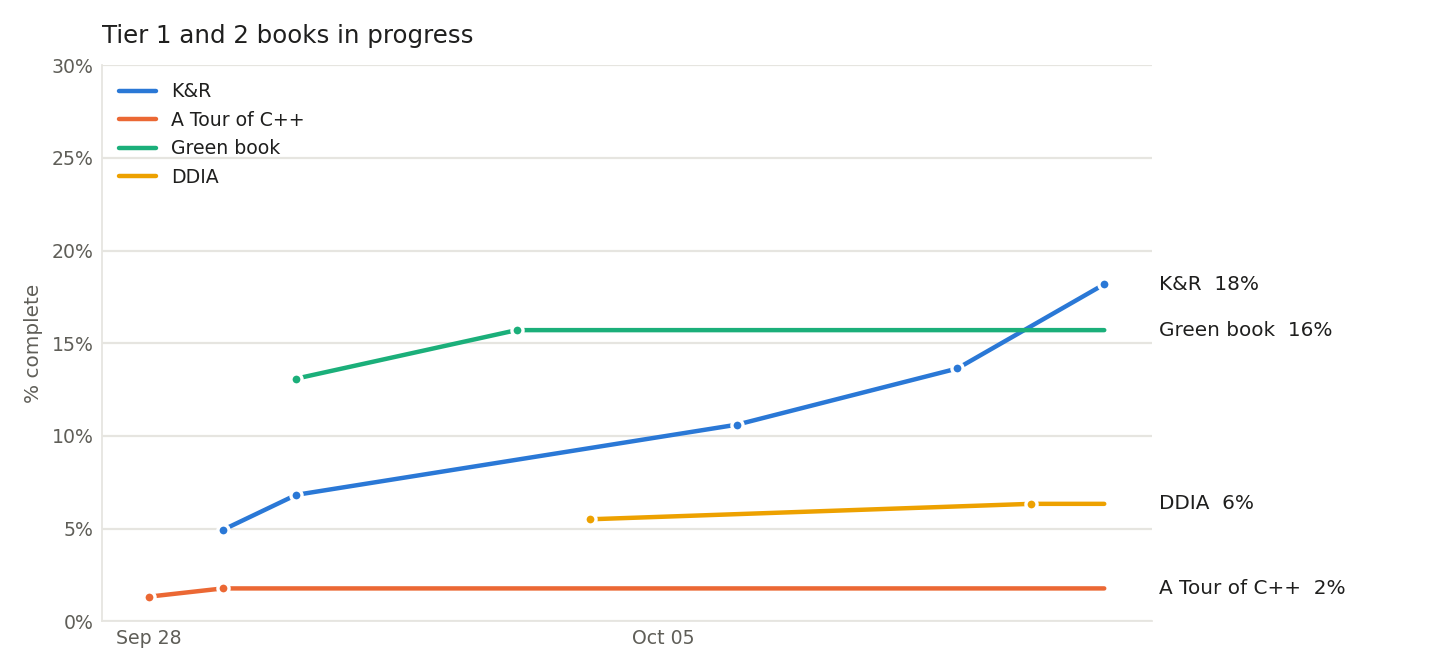
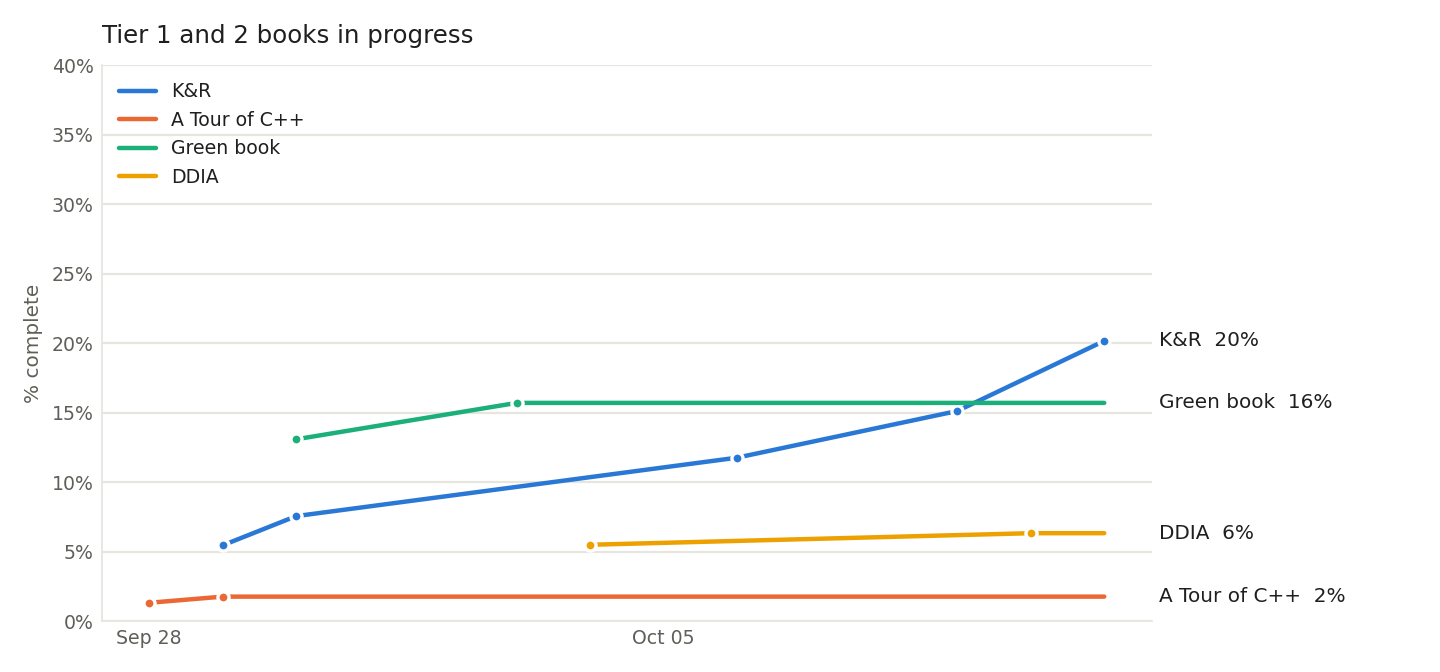
Fix K&R page count to 238

diff --git a/tracks/quant.md b/tracks/quant.md
@@ -9,7 +9,7 @@
   pointer chasing, allocations, and random-level logic. Big-O hides constant factors and cache behavior. Read K&R for the
   memory model, pointers, and arrays; the cache-locality half of the lesson belongs to the low-latency book in the career track.
   Log: 2026-09-29 started, read to page 13. 2026-09-30 to page 18. 2026-10-06 to page 28. 2026-10-09 to page 36, finished chapter 1. 2026-10-11 to page 41 (through 2.6), then read 2.8 through 2.12 with 2.7 skipped. Chapter 2 done except 2.7. Currently on page 52
-  of 264, chapter 3 Control Flow next. 48 pages read (18%).
+  of 238, chapter 3 Control Flow next. 48 pages read (18%).
   TODO: backfill 2.7 Type Conversions (pages 41 to 44), not yet read.
 - [~] **A Tour of C++** by Bjarne Stroustrup (Tier 1)
   Fast, authoritative overview of modern C++. Second priority overall, after K&R. Also pays off directly in competitive programming.

diff --git a/README.md b/README.md
@@ -15,7 +15,7 @@ Personal reading list across three tracks. Each track lives in its own file unde
 <!-- progress:start -->
 | Book | Progress | | Unit |
 |---|---|---|---|
-| K&R | `████░░░░░░░░░░░░░░░░` | 18% | 48 of 264 pages |
+| K&R | `████░░░░░░░░░░░░░░░░` | 20% | 48 of 238 pages |
 | A Tour of C++ | `░░░░░░░░░░░░░░░░░░░░` | 2% | 4 of 226 pages |
 | Green book | `███░░░░░░░░░░░░░░░░░` | 16% | 30 of 191 pages |
 | DDIA | `█░░░░░░░░░░░░░░░░░░░` | 6% | 38 of 600 pages |
